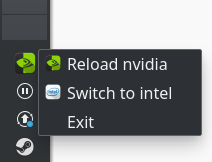
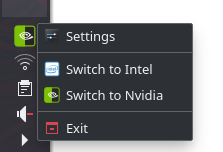
README : replaced built-in tray by optimus-manager-qt

diff --git a/README.md b/README.md
@@ -112,14 +112,12 @@ Where `MODE` can be `intel`, `nvidia`, or `nvidia_once`. The last one is a speci
 
 ![optimus-manager systray screenshot](systray.png "optimus-manager systray")
 
-optimus-manager includes a system tray icon that makes it easy to switch GPUs. It should work on most desktop environments.
+The program [optimus-manager-qt](https://github.com/Shatur95/optimus-manager-qt) provides a system tray icon for easy switching. It also includes a GUI for setting options without editing the configuration file manually.    
+AUR package : [optimus-manager-qt](https://aur.archlinux.org/packages/optimus-manager-qt/)
 
-To make the tray icon automatically launch with your DE, it is usually enough to do:
-```
-ln -s /usr/share/applications/optimus-manager-systray.desktop ~/.config/autostart/optimus-manager-systray.desktop
-```
+A Gnome Shell extension is also available here : [optimus-manager-argos](https://github.com/inzar98/optimus-manager-argos).
 
-A Gnome Shell extension was also made, you can find it here : [optimus-manager-argos](https://github.com/inzar98/optimus-manager-argos).
+*Note :* optimus-manager also includes a built-in tray app that can be launched with the command `optimus-manager-systray`. This app is deprecated and will be removed in a future version. Please install `optimus-manager-qt` instead.
 
 Configuration
 ----------
